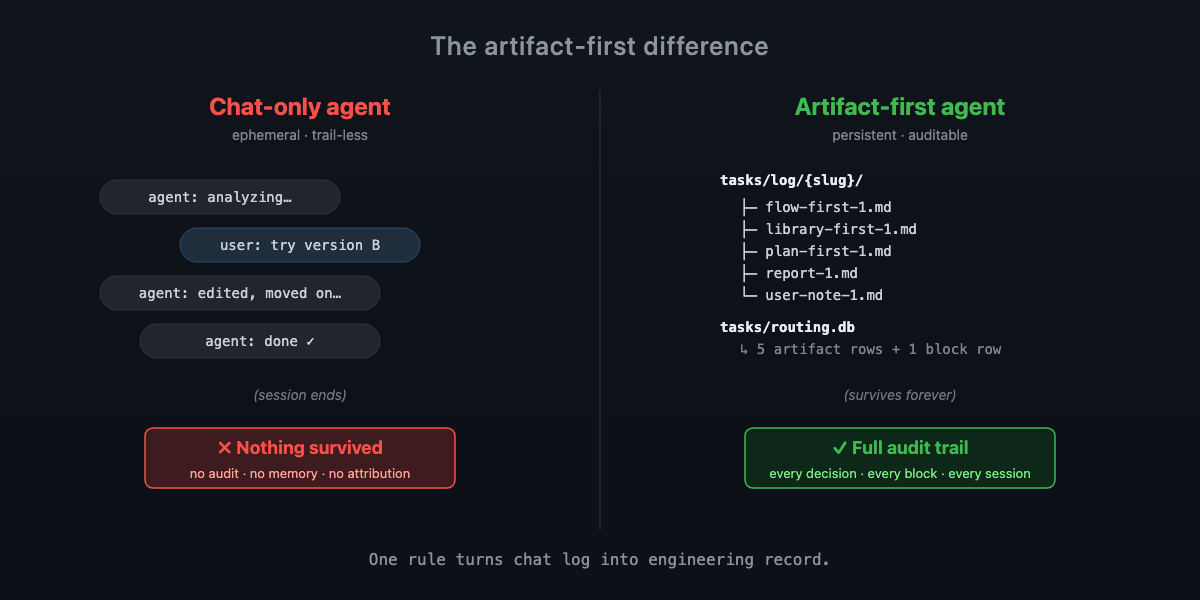
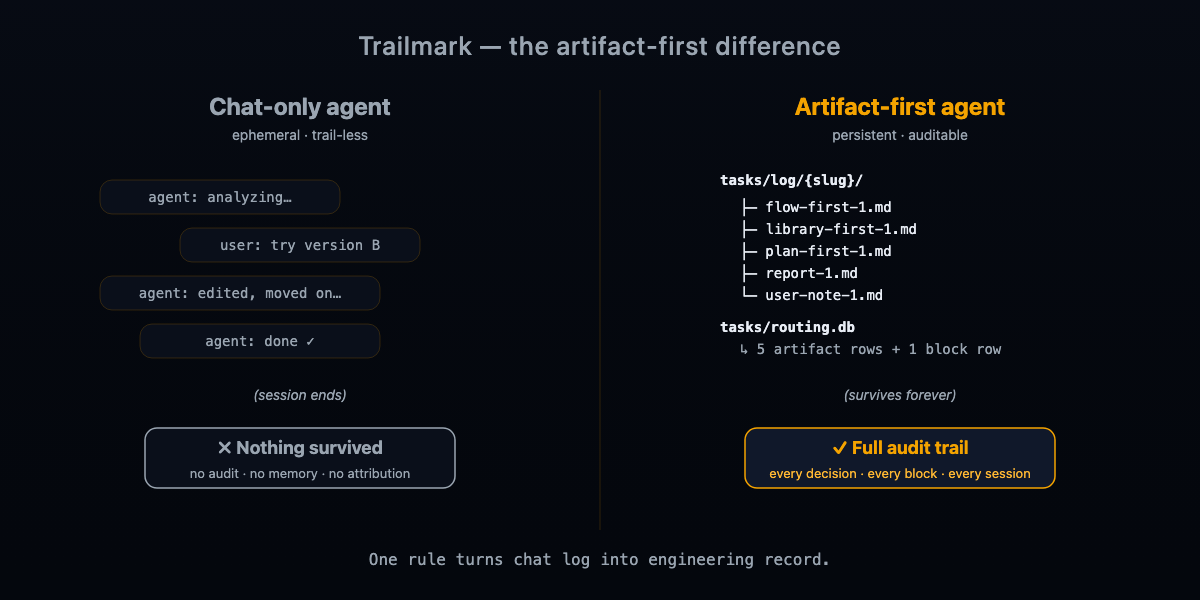
rebrand: 594 series 9400 — Trailmark identity (posters + repo rename + docs)

diff --git a/README.md b/README.md
@@ -3,10 +3,10 @@
 [![License: MIT](https://img.shields.io/badge/License-MIT-yellow.svg)](https://opensource.org/licenses/MIT)
 [![Manifest: v0.8.0](https://img.shields.io/badge/manifest-v0.8.0-blue.svg)](./manifest.yml)
 [![Skills: 19](https://img.shields.io/badge/skills-19_shipped-brightgreen.svg)](./docs/SKILLS_MAP.md)
-[![GitHub stars](https://img.shields.io/github/stars/bearded-illirian/framework?style=social)](https://github.com/bearded-illirian/framework/stargazers)
-[![GitHub issues](https://img.shields.io/github/issues/bearded-illirian/framework.svg)](https://github.com/bearded-illirian/framework/issues)
+[![GitHub stars](https://img.shields.io/github/stars/bearded-illirian/trailmark?style=social)](https://github.com/bearded-illirian/trailmark/stargazers)
+[![GitHub issues](https://img.shields.io/github/issues/bearded-illirian/trailmark.svg)](https://github.com/bearded-illirian/trailmark/issues)
 
-# The Framework
+# Trailmark
 
 **An artifact-first agent framework for driving multi-step engineering tasks
 through a disciplined skill chain — one block at a time, one commit at a
@@ -280,7 +280,7 @@ No services. No package managers beyond pip for Flow UI.
 
 ## Status
 
-**MVP release — 19 skills + 1 tool, manifest v0.8.0.**
+**Current release — 19 skills + 1 tool, manifest v0.8.0.**
 
 The 19 shipped skills (2 slash-commands + 4 protocol skills + 13 core skills)
 are functional and used daily on real production work. The Flow UI is a
@@ -295,7 +295,7 @@ tag are the last steps of the release roadmap.
 
 ## Star history
 
-[![Star History Chart](https://api.star-history.com/svg?repos=bearded-illirian/framework&type=Date)](https://star-history.com/#bearded-illirian/framework&Date)
+[![Star History Chart](https://api.star-history.com/svg?repos=bearded-illirian/trailmark&type=Date)](https://star-history.com/#bearded-illirian/trailmark&Date)
 
 ---
 
@@ -303,4 +303,4 @@ tag are the last steps of the release roadmap.
 
 Released under the MIT License — see [LICENSE](./LICENSE).
 
-Public mirror: [github.com/bearded-illirian/framework](https://github.com/bearded-illirian/framework)
+Public mirror: [github.com/bearded-illirian/trailmark](https://github.com/bearded-illirian/trailmark)

diff --git a/CHANGELOG.md b/CHANGELOG.md
@@ -154,10 +154,10 @@ below for the incremental history.
 - Initial internal MVP: 13 skills (2 commands + 4 protocol + 7 core) +
   tooling scaffolding + `manifest.yml`.
 
-[Unreleased]: https://github.com/bearded-illirian/framework/compare/v1.0.0-mvp...HEAD
-[1.0.0-mvp]: https://github.com/bearded-illirian/framework/releases/tag/v1.0.0-mvp
-[0.5.0]: https://github.com/bearded-illirian/framework/compare/v0.4.0...v0.5.0
-[0.4.0]: https://github.com/bearded-illirian/framework/compare/v0.3.0...v0.4.0
-[0.3.0]: https://github.com/bearded-illirian/framework/compare/v0.2.0...v0.3.0
-[0.2.0]: https://github.com/bearded-illirian/framework/compare/v0.1.0...v0.2.0
-[0.1.0]: https://github.com/bearded-illirian/framework/releases/tag/v0.1.0
+[Unreleased]: https://github.com/bearded-illirian/trailmark/compare/v1.0.0-mvp...HEAD
+[1.0.0-mvp]: https://github.com/bearded-illirian/trailmark/releases/tag/v1.0.0-mvp
+[0.5.0]: https://github.com/bearded-illirian/trailmark/compare/v0.4.0...v0.5.0
+[0.4.0]: https://github.com/bearded-illirian/trailmark/compare/v0.3.0...v0.4.0
+[0.3.0]: https://github.com/bearded-illirian/trailmark/compare/v0.2.0...v0.3.0
+[0.2.0]: https://github.com/bearded-illirian/trailmark/compare/v0.1.0...v0.2.0
+[0.1.0]: https://github.com/bearded-illirian/trailmark/releases/tag/v0.1.0

diff --git a/README.ru.md b/README.ru.md
@@ -1,6 +1,6 @@
 [English](./README.md) · [Русский](./README.ru.md)
 
-# The Framework
+# Trailmark
 
 **Artifact-first agent-фреймворк для многоэтапных инженерных задач через
 дисциплинированную цепочку скиллов — один блок за раз, один коммит за раз,
@@ -264,4 +264,4 @@ CI workflow (`.github/workflows/verify-contract.yml`) и полный v1.0.0-mvp
 
 Выпущено под MIT License — см. [LICENSE](./LICENSE).
 
-Публичный зеркало: [github.com/bearded-illirian/framework](https://github.com/bearded-illirian/framework)
+Публичный зеркало: [github.com/bearded-illirian/trailmark](https://github.com/bearded-illirian/trailmark)

diff --git a/docs/TROUBLESHOOTING.md b/docs/TROUBLESHOOTING.md
@@ -161,10 +161,10 @@ Common per-step fixes:
 If none of the above fixes work:
 
 - **Search Discussions** — someone may have hit the same issue:
-  `https://github.com/bearded-illirian/framework/discussions`
+  `https://github.com/bearded-illirian/trailmark/discussions`
 - **File an Issue** — include: OS, Python version, exact command you ran,
   and the full error output:
-  `https://github.com/bearded-illirian/framework/issues/new`
+  `https://github.com/bearded-illirian/trailmark/issues/new`
 - **Read** [`docs/CONCEPTS.md`](./CONCEPTS.md) — many "it's not working"
   reports turn out to be a concept mismatch (task vs block vs chain)
 
